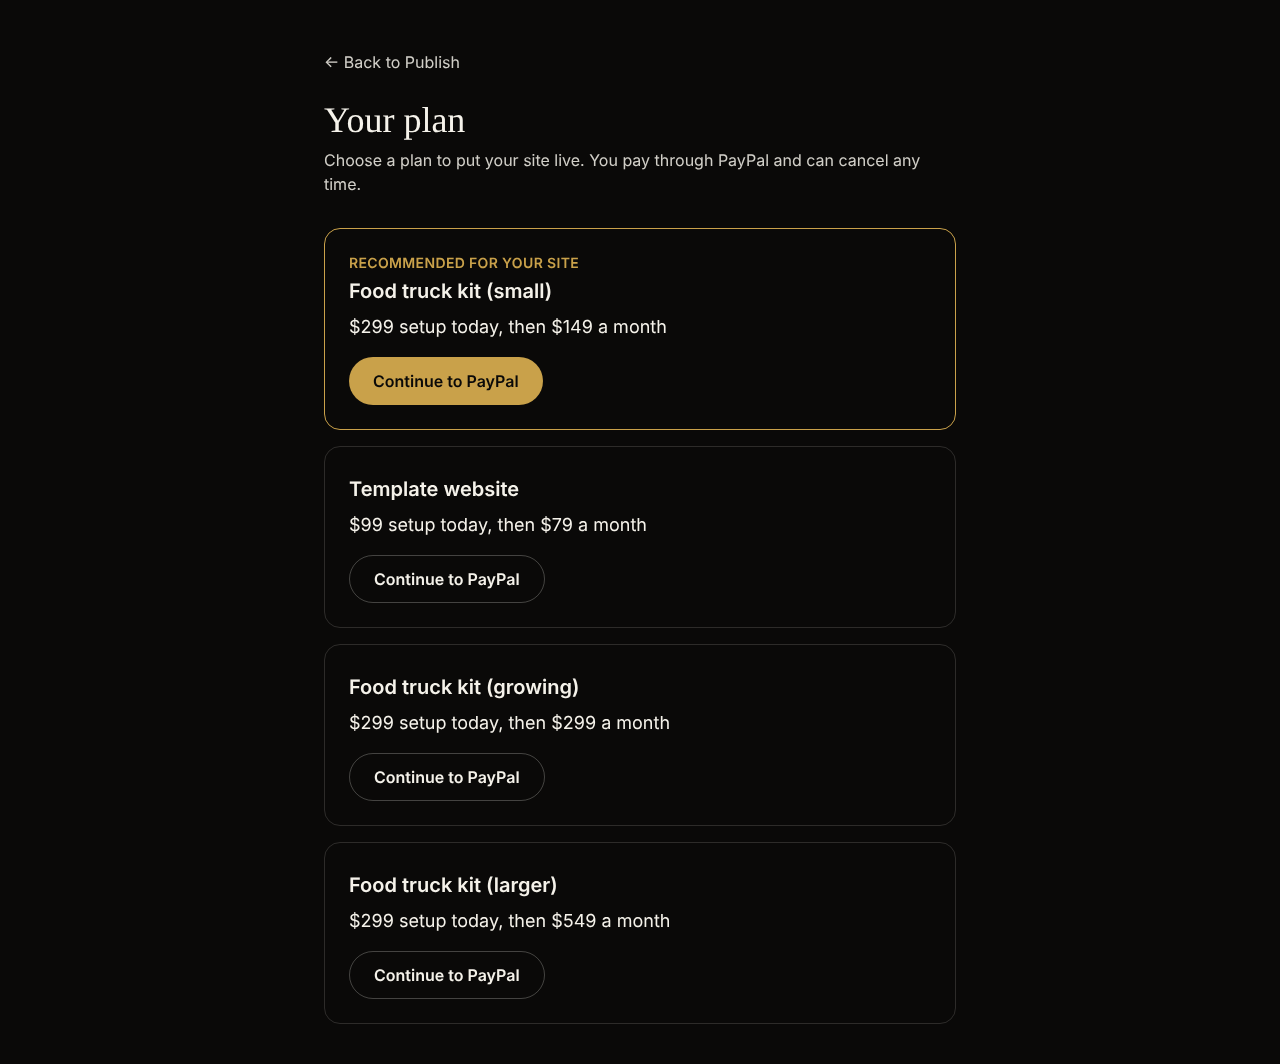
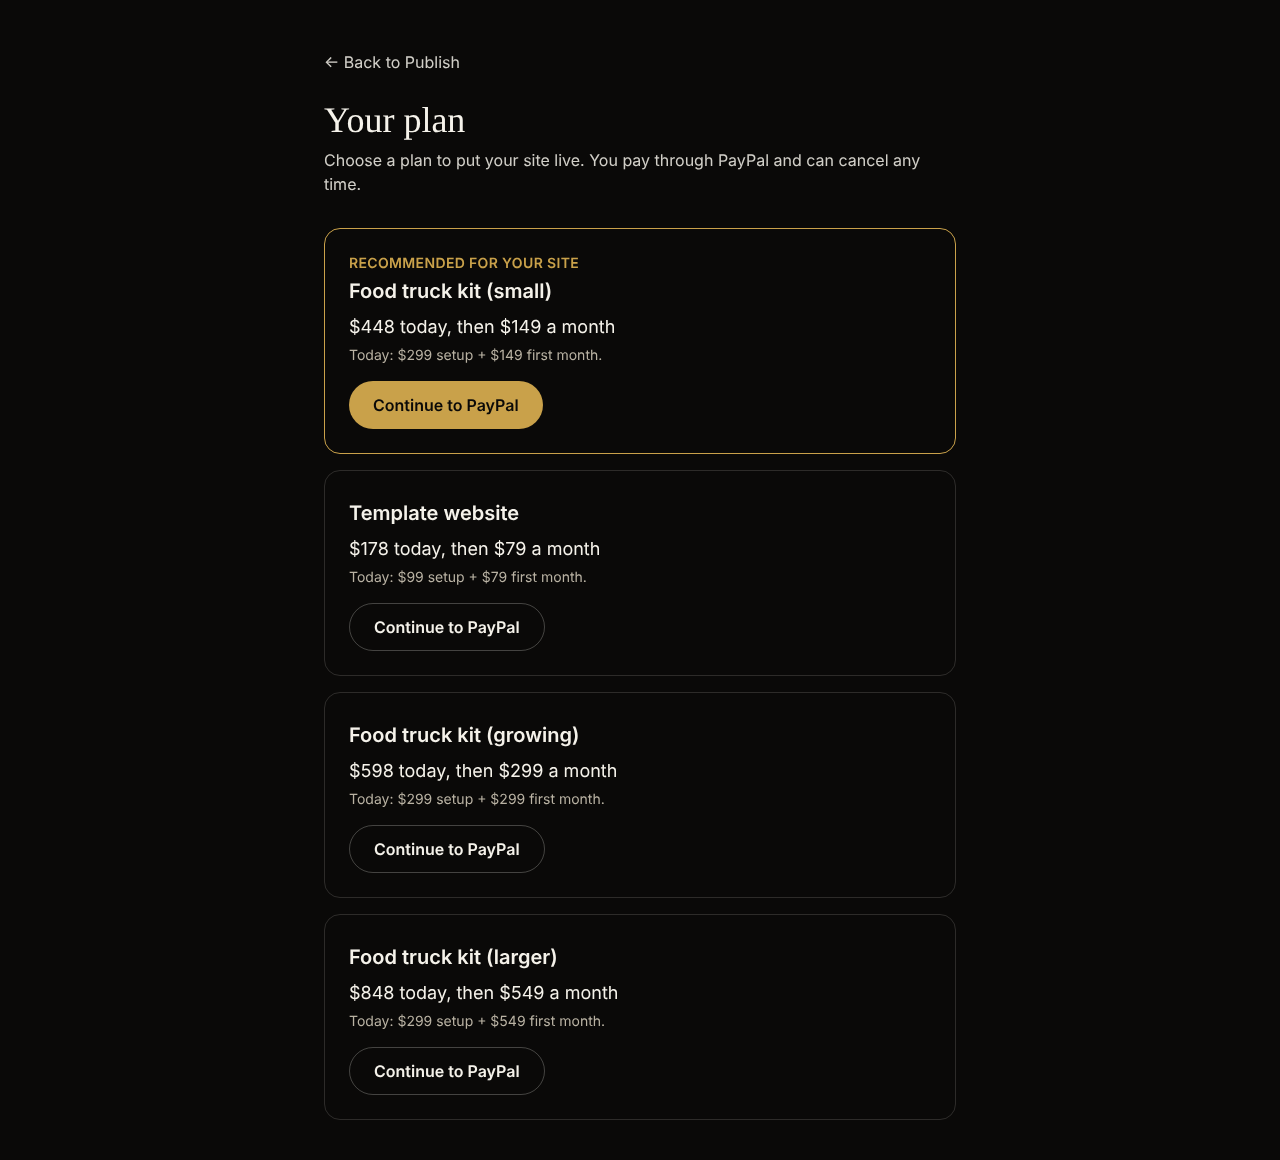
Builder: plan page shows the full amount due today
PayPal takes the setup fee and the first month together at sign-up, then
the monthly price. The page said "$299 setup today, then $149 a month",
which hid that the first month is also due today. It now says "$448 today,
then $149 a month" with "Today: $299 setup + $149 first month." under it.

Claude-Session: https://claude.ai/code/session_01DdLvUSRkSy6EpxEYJL4ekt

diff --git a/apps/builder/app/(studio)/sites/[siteId]/plan/page.tsx b/apps/builder/app/(studio)/sites/[siteId]/plan/page.tsx
@@ -83,7 +83,9 @@ export default async function PlanPage({ params, searchParams }: Props) {
               <li key={c.key} className={`rounded-2xl border p-6 ${c.recommended ? 'border-gold' : 'border-paper/15'}`}>
                 {c.recommended ? <p className="text-sm font-semibold uppercase tracking-wide text-gold">Recommended for your site</p> : null}
                 <h2 className="mt-1 text-xl font-semibold">{c.name}</h2>
-                <p className="mt-2 text-lg">{c.setup > 0 ? `${usd(c.setup)} setup today, then ` : ''}{usd(c.monthly)} a month</p>
+                {/* PayPal charges the setup fee and the first month together today, then monthly. */}
+                <p className="mt-2 text-lg" data-testid="plan-price">{usd(c.setup + c.monthly)} today, then {usd(c.monthly)} a month</p>
+                {c.setup > 0 ? <p className="mt-1 text-sm text-muted">Today: {usd(c.setup)} setup + {usd(c.monthly)} first month.</p> : null}
                 {owner ? (
                   <form method="post" action={`/api/sites/${siteId}/billing/checkout`} className="mt-4">
                     <input type="hidden" name="product" value={c.key} />

diff --git a/apps/builder/tests/e2e/billing.spec.ts b/apps/builder/tests/e2e/billing.spec.ts
@@ -64,6 +64,9 @@ async function pay(page: Page, siteId: string) {
   const csp = (await page.request.get(`/sites/${siteId}/plan`)).headers()['content-security-policy'] ?? ''
   expect(csp).toContain("form-action 'self' https://www.paypal.com https://www.sandbox.paypal.com")
   await expect(page.getByText('Recommended for your site')).toBeVisible()
+  // The fixture is a food truck site: Small is $299 setup + $149 a month, both charged today.
+  await expect(page.getByTestId('plan-price').first()).toHaveText('$448 today, then $149 a month')
+  await expect(page.getByText('Today: $299 setup + $149 first month.')).toBeVisible()
   await shot(page, 'plan-choose')
   await page.getByRole('button', { name: 'Continue to PayPal' }).first().click()
   await page.waitForURL(/\/dev\/paypal\?subscription_id=I-\d{6}/)
